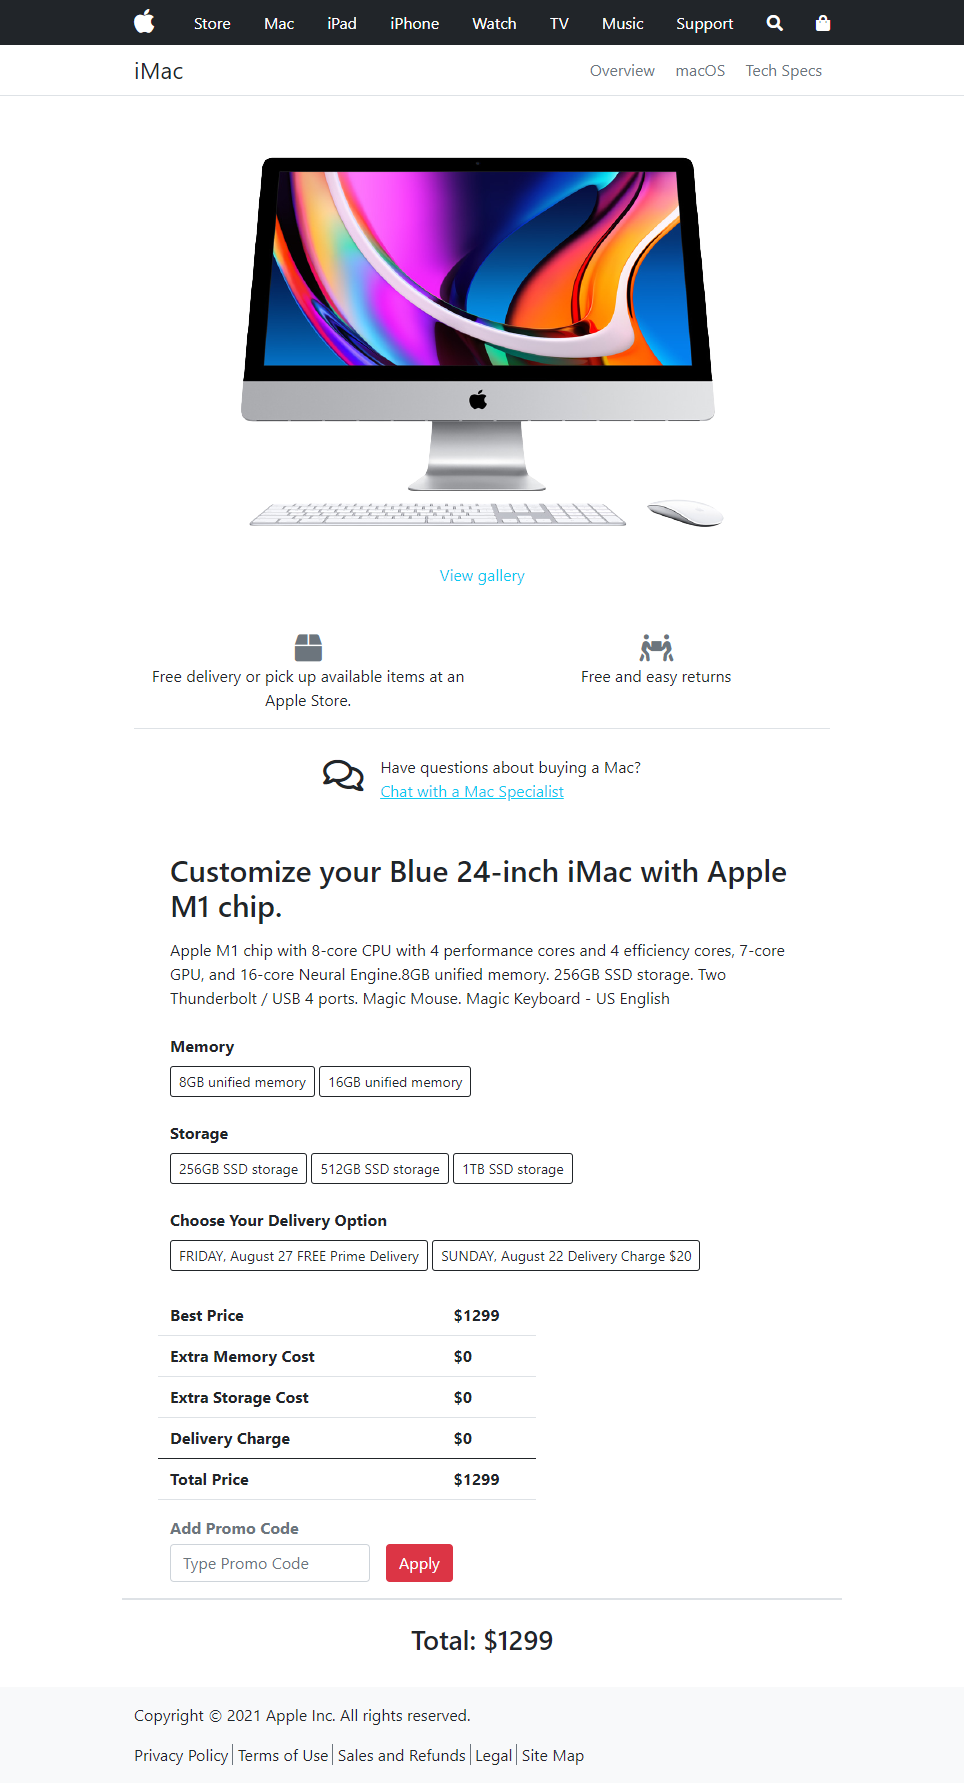
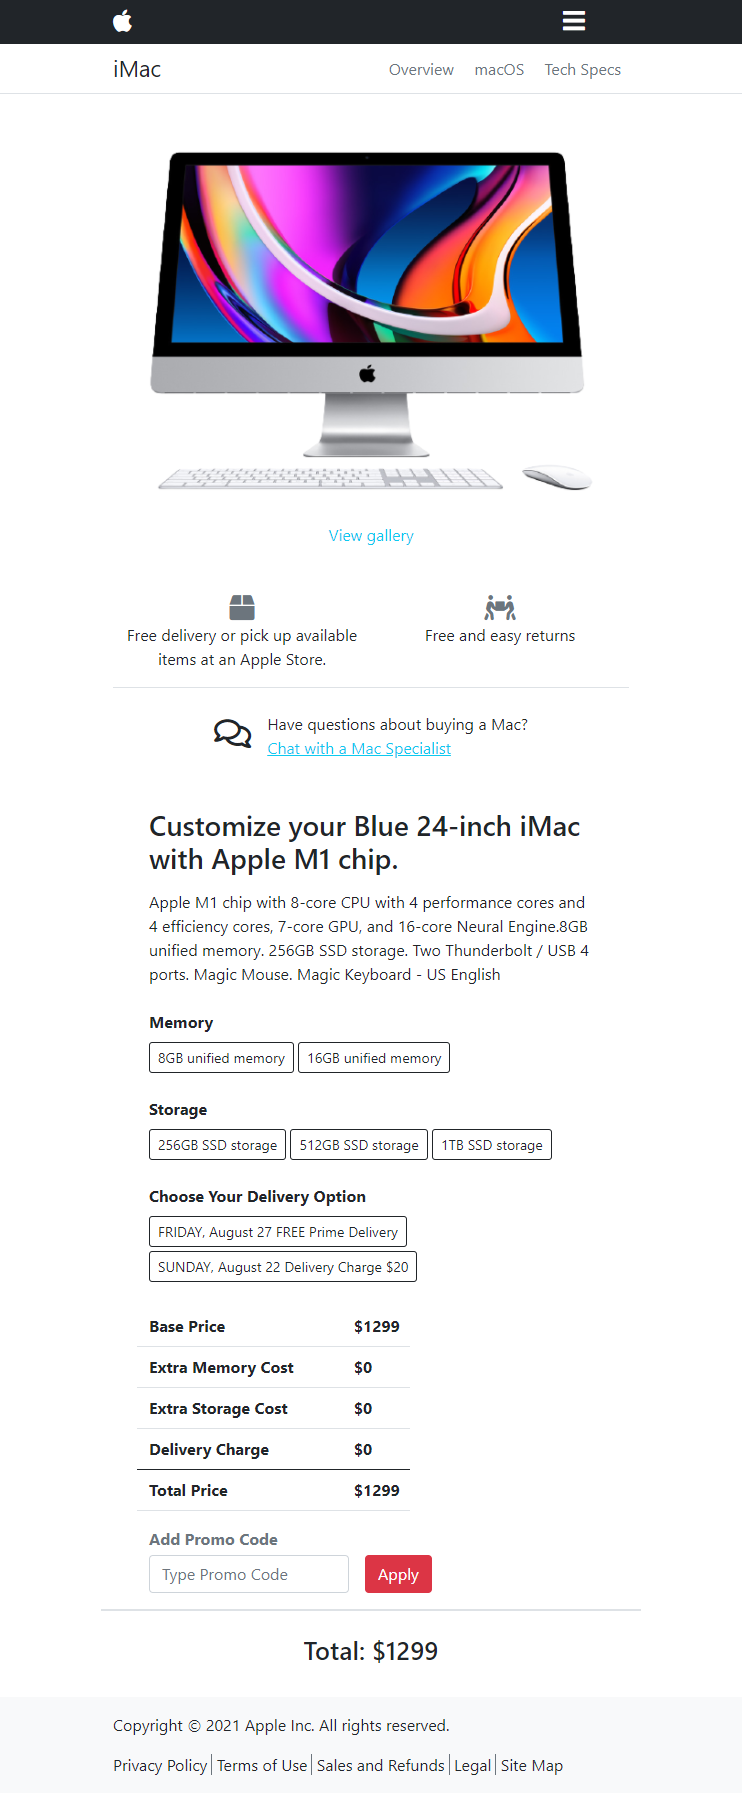
made some changes

diff --git a/js/script.js b/js/script.js
@@ -7,7 +7,7 @@ const storage = document.getElementById("extra-storage")
 const charge = document.getElementById("extra-charge")
 
 // updating total 
-function total(name, price) {
+function updateTotal(name, price) {
     name.innerText = price
     totalPrice.innerText = parseInt(basePrice.innerText) + parseInt(memory.innerText) + parseInt(storage.innerText) + parseInt(charge.innerText)
     finalPrice.innerText = parseInt(basePrice.innerText) + parseInt(memory.innerText) + parseInt(storage.innerText) + parseInt(charge.innerText)
@@ -26,29 +26,29 @@ function promoUpdate() {
 
 // update memory config 
 document.getElementById("8gb-memory").addEventListener("click", function () {
-    total(memory, 0)
+    updateTotal(memory, 0)
 })
 document.getElementById("16gb-memory").addEventListener("click", function () {
-    total(memory, 180)
+    updateTotal(memory, 180)
 })
 
 // update storage config
 document.getElementById("256gb-storage").addEventListener("click", function () {
-    total(storage, 0)
+    updateTotal(storage, 0)
 })
 document.getElementById("512gb-storage").addEventListener("click", function () {
-    total(storage, 100)
+    updateTotal(storage, 100)
 })
 document.getElementById("1tb-storage").addEventListener("click", function () {
-    total(storage, 180)
+    updateTotal(storage, 180)
 })
 
 // update charge config
 document.getElementById("free-delivery").addEventListener("click", function () {
-    total(charge, 0)
+    updateTotal(charge, 0)
 })
 document.getElementById("charged-delivery").addEventListener("click", function () {
-    total(charge, 20)
+    updateTotal(charge, 20)
 })
 
 // apply promo handler

diff --git a/index.html b/index.html
@@ -130,7 +130,7 @@
                 <div class="row">
                     <article class="col-sm-7 col-10 fw-bold mt-4">
                         <div class="row border-bottom py-2">
-                            <div class="col-9">Best Price</div>
+                            <div class="col-9">Base Price</div>
                             <div class="col-3">$<span id="base-price">1299</span></div>
                         </div>
                         <div class="row border-bottom py-2">
